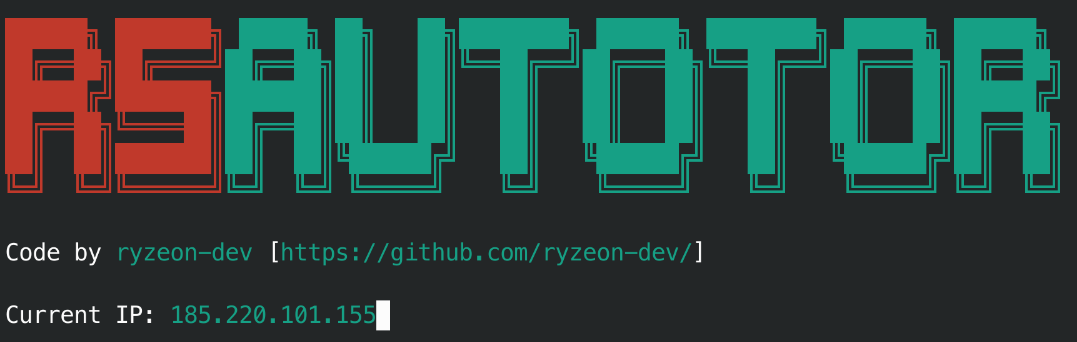
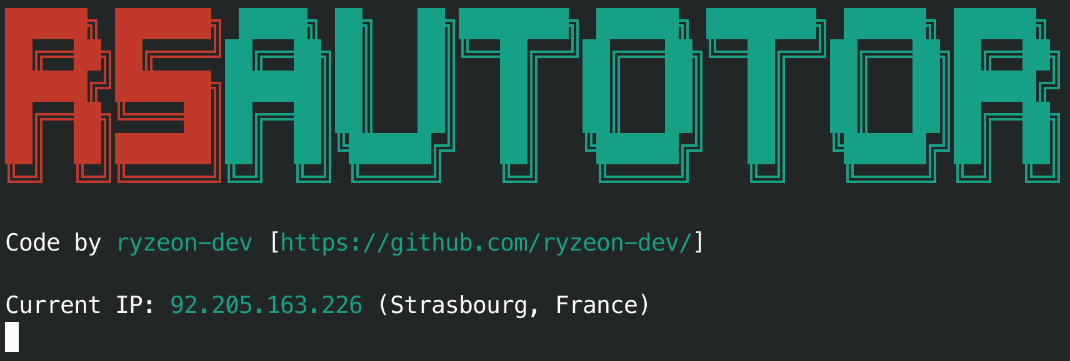
implemented ip localization

Changed region(s): [[0.0, 0.0, 1.0, 0.5848], [0.0, 0.6433, 0.6785, 0.7895], [0.0, 0.8187, 0.6168, 0.9942]]

diff --git a/src/main.rs b/src/main.rs
@@ -5,7 +5,7 @@ use std::process::Command;
 use std::thread::sleep;
 use std::time::Duration;
 use std::io::{stdout, Write};
-
+use rsjson;
 
 const ASCII_ART: &str = "
 \x1b[91m██████╗ ███████╗\x1b[96m █████╗ ██╗   ██╗████████╗ ██████╗ ████████╗ ██████╗ ██████╗ \x1b[00m
@@ -46,6 +46,74 @@ fn checkIp() -> String {
     }
     
     return String::from_utf8(buffer).unwrap().trim().to_string();
+}
+
+fn checkIpLocation(address: String) -> String {
+    // curl http://ip-api.com/json/$(curl http://checkip.amazonaws.com -x socks5://127.0.0.1:9050 --silent) --silent
+    let mut buffer = Vec::new();
+    let mut handler = Easy::new();
+
+    match handler.url(format!("http://ip-api.com/json/{}", address).as_str()) {
+
+        Err(_) => {
+            return String::new()
+
+        },
+        Ok(_) => {
+            let mut transfer = handler.transfer();
+            
+            transfer.write_function(|data| {
+                buffer.extend_from_slice(data);
+                Ok(data.len())
+            }).unwrap();
+
+            match transfer.perform() {
+                Err(_) => {
+                    println!("transform error");
+                    return String::new();
+                },
+                Ok(_) => {}
+            }
+        }
+    }
+
+    for i in 0..buffer.len() {
+        if buffer[i] > 128 {
+            buffer[i] = 42;
+        }
+    }
+    let string = String::from_utf8(buffer).unwrap();
+
+    let json = match rsjson::Json::fromString(string) {
+        Err(_) => {
+            return String::new()
+        },
+        Ok(json) => json
+    };
+
+    let city = match json.get(String::from("city")) {
+        None => String::new(),
+        Some(cityNode) => {
+            cityNode.toString().unwrap()
+        }
+    };
+
+    let country = match json.get(String::from("country")) {
+        None => String::new(),
+        Some(countryNode) => {
+            countryNode.toString().unwrap()
+        }
+    };
+
+    if country.is_empty() {
+        return format!("Unknown location");
+
+    } else if city.is_empty() {
+        return format!("{}", country);
+
+    } else {
+        return format!("{}, {}", city, country);
+    }
 }
 
 fn restartTor() {
@@ -133,16 +201,21 @@ fn main() {
     }
 
     println!("{}", ASCII_ART);
-    println!("{} [{}]\n", AUTHOR_TAG, GITHUB_LINK);
+    println!("{} [{}]\n\n", AUTHOR_TAG, GITHUB_LINK);
     
     checkTorRunning();
-    let mut stdout = stdout();
+    let mut len = 0;
 
     loop {
         let ip = checkIp();
-        
-        stdout.write(format!("\rCurrent IP: \x1b[96m{ip:<width$}\x1b[00m", ip=ip, width=15).as_bytes());
-        stdout.flush();
+        let location = checkIpLocation(ip.clone()); 
+        let line = format!("\x1b[1A\rCurrent IP: \x1b[96m{}\x1b[00m ({})", ip, location);
+
+        if line.len() > len {
+            len = line.len();
+        }
+
+        println!("{line:<len$}");
         
         restartTor();
         sleep(Duration::from_millis(interval));
